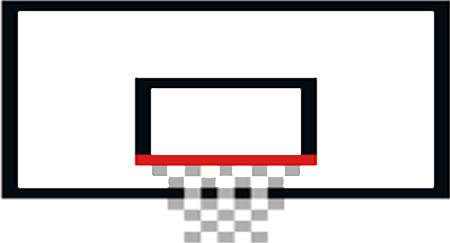
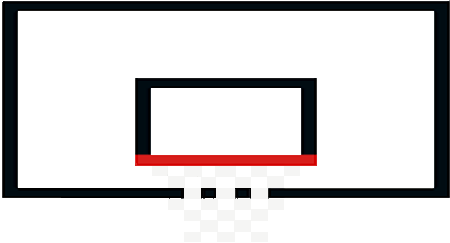
Changed background and court, moved left wall. Also added blocking and its animation.

Changed region(s): [[0.0, 0.0, 1.0, 1.0], [0.3111, 0.3169, 0.7156, 0.3745]]

diff --git a/script.js b/script.js
@@ -80,8 +80,8 @@
   gameScene.create = function() {
 
     //Setting background
-      gameState.background = this.add.image(0,0, 'background');
-      gameState.background.setScale(.69);
+      gameState.background = this.add.image(400,50, 'background');
+      gameState.background.setScale(.5);
     
     //Adding Court
       gameState.court = this.add.image(400, 250, 'court');
@@ -95,7 +95,7 @@
       const wallTopBackboard = this.physics.add.staticGroup();
 
     //Putting the walls into the game
-      wallL.create(25, 450, 'Walls').setScale(1, 100).refreshBody();
+      wallL.create(5, 450, 'Walls').setScale(1, 100).refreshBody();
       wallR.create(750, 450, 'Walls').setScale(1, 100).refreshBody();
       wallBottom.create(0, 500, 'Walls').setScale(200, 1).refreshBody();
       wallBaseline.create(250, 155, 'Walls', undefined, false).setScale(100,.5).refreshBody();
@@ -120,20 +120,20 @@
       gameState.ball.inAir = false;
       this.anims.create({
       key: "shoot",
-      frameRate: 35,
+      frameRate: 50,
       frames: this.anims.generateFrameNumbers("shotmeter", { start: 0, end: 17 }),
       repeat: 0
     })
     this.anims.create({
       key: "p1block",
-      frameRate: 5,
-      frames: this.anims.generateFrameNumbers("p1block", { start: 0, end: 3 }),
+      frameRate: 25,
+      frames: this.anims.generateFrameNumbers("p1blocking", { start: 0, end: 3 }),
       repeat: 0
     });
     this.anims.create({
       key: "p2block",
-      frameRate: 5,
-      frames: this.anims.generateFrameNumbers("p2block", { start: 0, end: 3 }),
+      frameRate: 25,
+      frames: this.anims.generateFrameNumbers("p2blocking", { start: 0, end: 3 }),
       repeat: 0
     });
 
@@ -170,12 +170,12 @@
       gameState.cursors.numPad1 = this.input.keyboard.addKey(Phaser.Input.Keyboard.KeyCodes.NUMPAD_ONE);
       gameState.cursors.numPad2 = this.input.keyboard.addKey(Phaser.Input.Keyboard.KeyCodes.NUMPAD_TWO);
       gameState.cursors.numPad3 = this.input.keyboard.addKey(Phaser.Input.Keyboard.KeyCodes.NUMPAD_THREE);
-      gameState.cursors.ctrl = this.input.keyboard.addKey(Phaser.Input.KeyBoard.KeyCodes.ctrl);
+      gameState.cursors.ctrl = this.input.keyboard.addKey(Phaser.Input.Keyboard.KeyCodes.CTRL)
 
     //Colliders
       this.physics.add.collider(gameState.player1, wallL, function(){
         //Out of Bounds on Left Wall
-        if (gameState.player1.y <= 250 && gameState.player1.hasBall == true) {
+        if (gameState.player1.y <= 270 && gameState.player1.hasBall == true) {
           gameState.player1.hasBall = false;
           gameState.player2.hasBall = true;
           gameState.spawnBallP2();
@@ -183,7 +183,7 @@
       });
       this.physics.add.collider(gameState.player2, wallL, function(){
         //Out of Bounds on Left Wall
-        if (gameState.player2.y <= 230 && gameState.player2.hasBall == true) {
+        if (gameState.player2.y <= 270 && gameState.player2.hasBall == true) {
           gameState.player2.hasBall = false;
           gameState.player1.hasBall = true;
           gameState.spawnBallP1();
@@ -389,26 +389,28 @@
       if (gameState.player1.x >= gameState.player2.x - 30 && gameState.player1.x <= gameState.player2.x + 30) {
         if (gameState.cursors.numPad2.isDown) {
           if (gameState.cursors.keyF.isDown) {
-            gameState.player2.hasBall = false
-            gameState.player1.hasBall = true
+            playAnimation(gameState.player1, 'p1block');
+            gameState.player2.hasBall = false;
+            gameState.player1.hasBall = true;
          }
        }
      }
       
     //Blocking Player 2
-    if (gameState.player2.x >= gameState.player1.x - 30 && gameState.player2.x <= gameState.player1.x + 30) {
-        if (gameState.cursors.keyZ.isDown) {
-          if (gameState.cursors.ctrl.isDown) {
-            gameState.player1.hasBall = false
-            gameState.player2.hasBall = true
-         }
-       }
-     }
-    this.input.keyboard.on('CTRL.ALT', function () {
+    if (gameState.cursors.ctrl.isDown) {
+      if (gameState.player2.x >= gameState.player1.x - 30 && gameState.player2.x <= gameState.player1.x + 30) {
+          if (gameState.cursors.keyZ.isDown) {
+            playAnimation(gameState.player2, 'p2block');
+            gameState.player1.hasBall = false;
+            gameState.player2.hasBall = true;
+          }
+        }
+      }
+    /*this.input.keyboard.on('CTRL.ALT', function () {
       if (gameState.player1.hasBall == true && gameState.player2.x <= gameState.player1.x + 30 && gameState.player2.x >= gameState.player1.x - 30) {
         blockAnimation(gameState.player2)
       }
-    })
+    }) */
     
 
     //Score on Scoreboard
@@ -511,8 +513,8 @@
     })
   }
 
-  function blockAnimation(player){
-    player.play("p1block");
+  function playAnimation(player, animation){
+    player.play(animation);
   }
 
 //Phaser Library
